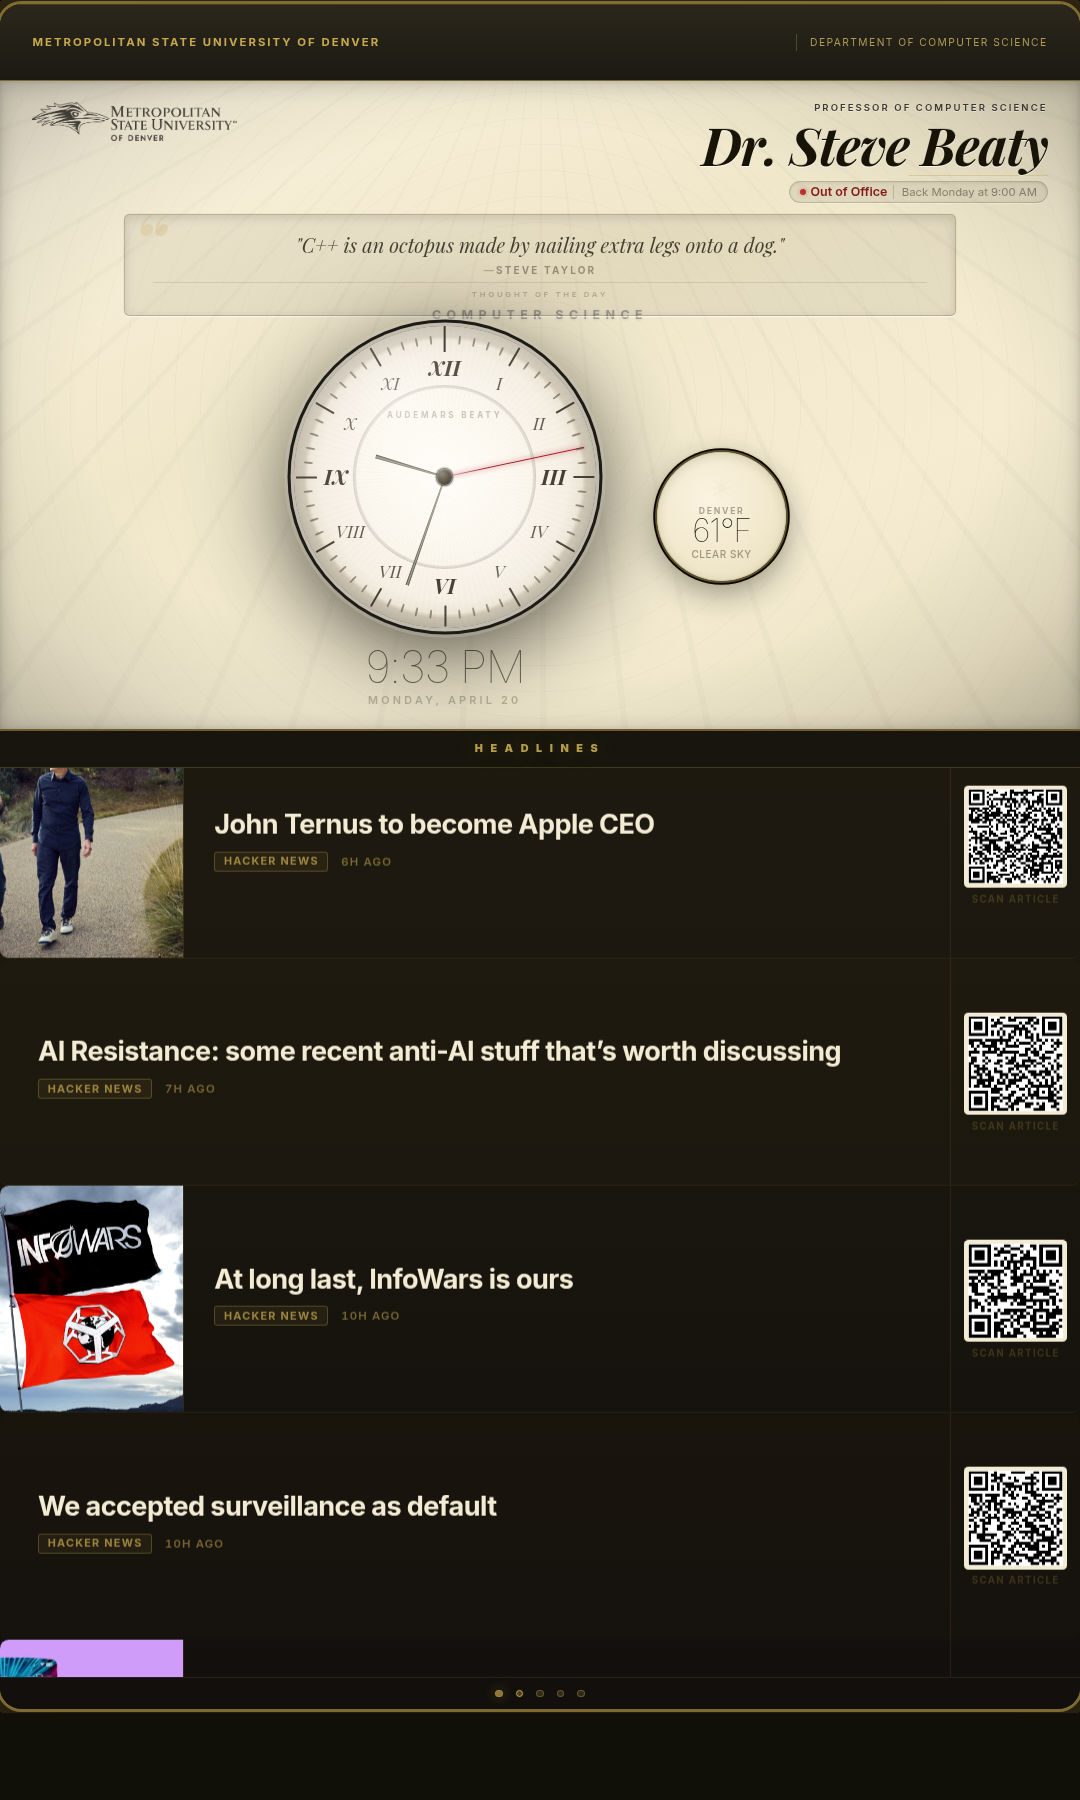
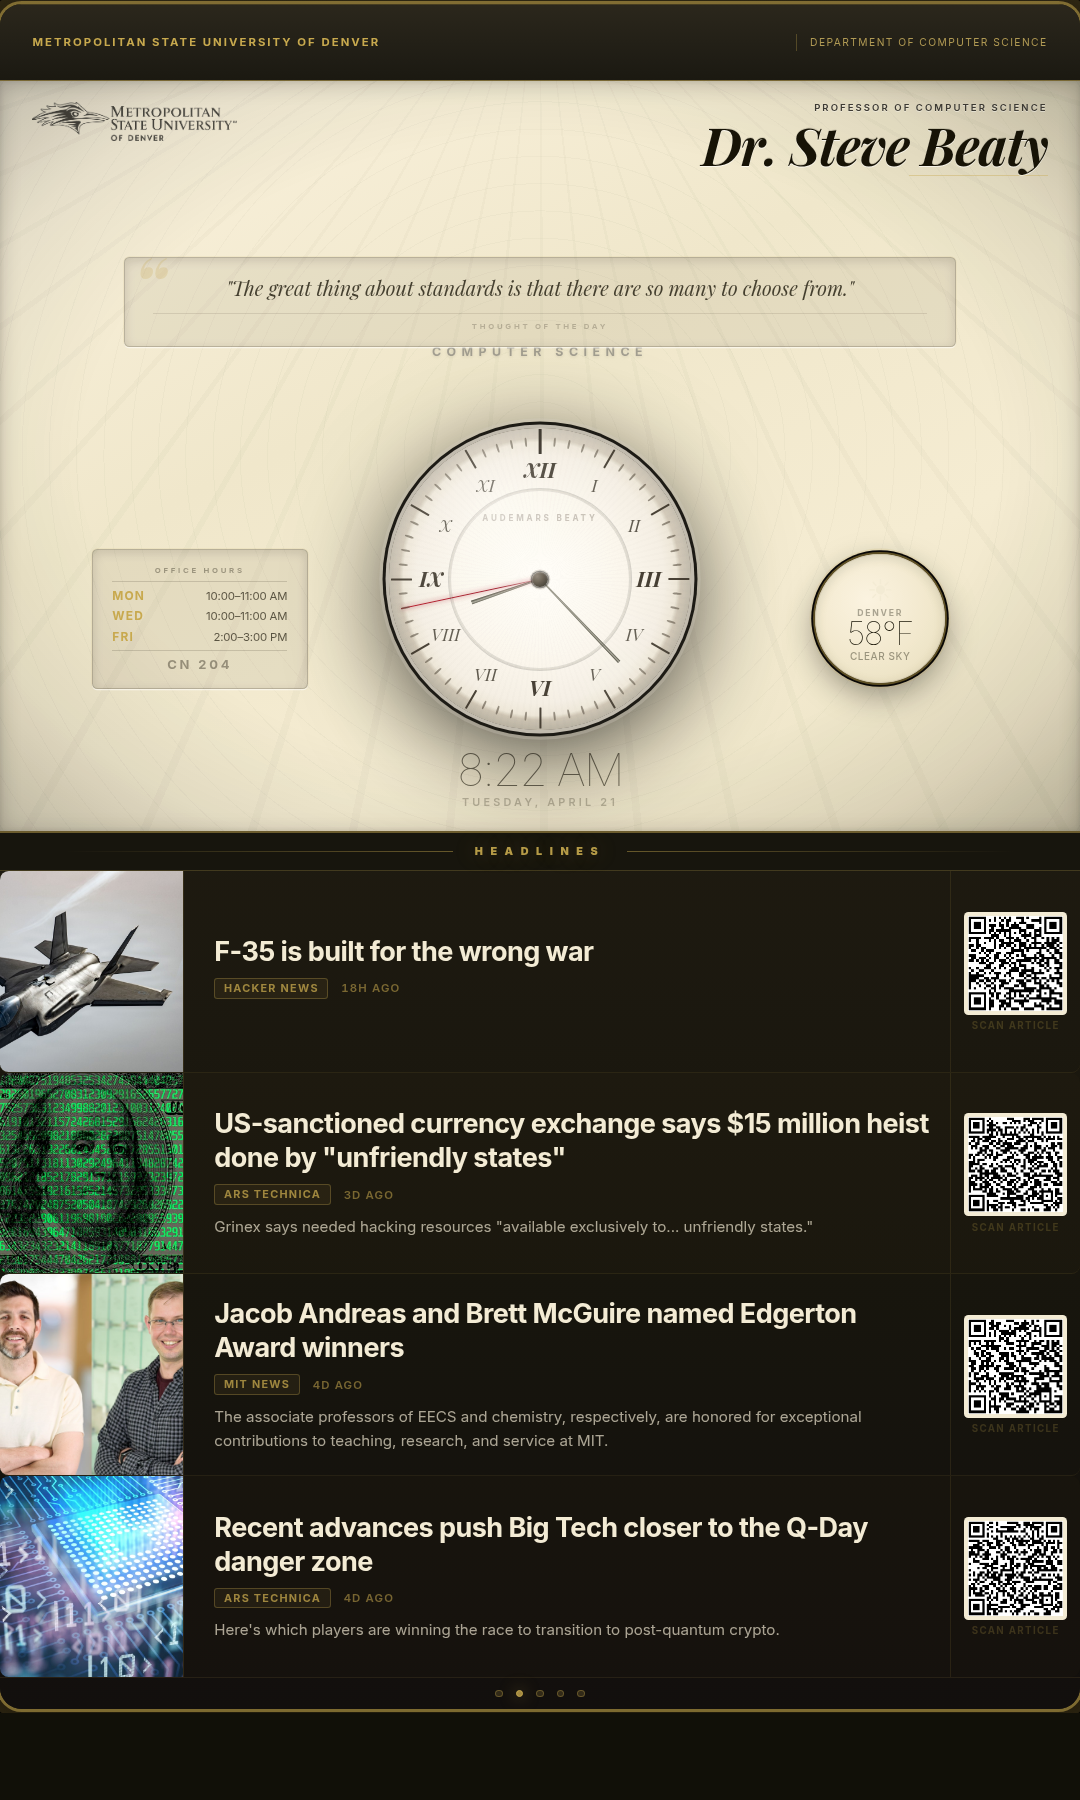
Redesign hero: 3-col widget layout, office hours panel, remove availability indicator
- Hero row height increased from 38% to 44% to fix clock clipping against quote text
- hero__widgets changed from flex to 3-column CSS grid (office hours | clock | weather)
- Added static office hours panel (Mon/Wed/Fri schedule, room CN 204) on the left
- Removed in/out-of-office availability card from nameplate and all supporting JS
- Updated all 6 canonical screenshots to reflect new layout

diff --git a/styles.css b/styles.css
@@ -40,7 +40,7 @@ body {
   aspect-ratio: 19 / 30;
   background: var(--case);
   display: grid;
-  grid-template-rows: 4.5% 38% 1fr;
+  grid-template-rows: 4.5% 44% 1fr;
   overflow: hidden;
   border-radius: 2cqw;
   filter: contrast(1.03) saturate(0.92);
@@ -290,6 +290,80 @@ body {
   padding-left: 0.7cqw;
 }
 
+/* ── OFFICE HOURS — complication panel ── */
+.office-hours-card {
+  justify-self: center;
+  display: flex;
+  flex-direction: column;
+  align-items: center;
+  gap: 0.55cqw;
+  padding: 1.4cqw 1.8cqw;
+  background: rgba(26,22,8,0.06);
+  border: 0.14cqw solid rgba(26,22,8,0.22);
+  border-radius: 0.5cqw;
+  box-shadow:
+    inset 0 0.25cqw 1cqw rgba(0,0,0,0.12),
+    0 0.12cqw 0 rgba(255,255,255,0.6),
+    0 0 0 0.06cqw rgba(200,168,72,0.12);
+  min-width: 20cqw;
+}
+
+.office-hours-card__title {
+  font-size: 0.72cqw;
+  font-weight: 700;
+  letter-spacing: 0.35em;
+  text-transform: uppercase;
+  color: rgba(26,22,8,0.35);
+  text-align: center;
+  padding-bottom: 0.55cqw;
+  border-bottom: 0.06cqw solid rgba(26,22,8,0.15);
+  width: 100%;
+}
+
+.office-hours-card__list {
+  list-style: none;
+  margin: 0;
+  padding: 0;
+  width: 100%;
+  display: flex;
+  flex-direction: column;
+  gap: 0.5cqw;
+}
+
+.office-hours-card__row {
+  display: flex;
+  justify-content: space-between;
+  align-items: baseline;
+  gap: 1.2cqw;
+}
+
+.office-hours-card__day {
+  font-size: 1.1cqw;
+  font-weight: 700;
+  letter-spacing: 0.1em;
+  text-transform: uppercase;
+  color: var(--brass);
+}
+
+.office-hours-card__time {
+  font-size: 1.05cqw;
+  font-weight: 400;
+  color: rgba(26,22,8,0.68);
+  letter-spacing: -0.01em;
+}
+
+.office-hours-card__location {
+  font-size: 1.2cqw;
+  font-weight: 700;
+  letter-spacing: 0.22em;
+  text-transform: uppercase;
+  color: rgba(26,22,8,0.38);
+  border-top: 0.06cqw solid rgba(26,22,8,0.15);
+  padding-top: 0.55cqw;
+  width: 100%;
+  text-align: center;
+}
+
 /* ── QUOTE — complication window ── */
 .quote-card {
   width: 82%;
@@ -357,12 +431,12 @@ body {
   border-top: 0.06cqw solid rgba(26,22,8,0.1);
 }
 
-/* ── WIDGETS ROW ── */
+/* ── WIDGETS ROW — three-column: office hours | clock | weather ── */
 .hero__widgets {
-  display: flex;
+  display: grid;
+  grid-template-columns: 1fr auto 1fr;
   align-items: center;
-  justify-content: center;
-  gap: 6%;
+  gap: 2cqw;
   position: relative;
 }
 
@@ -636,6 +710,7 @@ body {
 
 /* ── WEATHER — circular subdial complication ── */
 .weather-card {
+  justify-self: center;
   display: flex;
   flex-direction: column;
   align-items: center;

diff --git a/app.js b/app.js
@@ -5,13 +5,9 @@ import {
 } from "./utils.js";
 
 const configUrl = "config.json";
-const availabilityUrl = "availability.json";
 
 const logo = document.getElementById("logo");
 const displayName = document.getElementById("display-name");
-const availabilityCard = document.getElementById("availability-card");
-const availabilityStatus = document.getElementById("availability-status");
-const availabilityDetail = document.getElementById("availability-detail");
 const timeText = document.getElementById("time-text");
 const dateText = document.getElementById("date-text");
 const hourHand = document.getElementById("hour-hand");
@@ -57,7 +53,6 @@ async function boot() {
     startClock(activeConfig.timezone || "America/Denver");
     renderQuote(activeConfig.quotes);
     await Promise.allSettled([
-      loadAvailability(),
       loadWeather(activeConfig.weather),
       loadRss(activeConfig.rss)
     ]);
@@ -89,37 +84,6 @@ function applyBranding(config) {
   document.title = config.pageTitle || "Digital Signage";
   logo.src = config.logoImage;
   displayName.textContent = config.displayName || "Your Name";
-}
-
-async function loadAvailability() {
-  try {
-    const response = await fetch(availabilityUrl, { cache: "no-store" });
-    if (!response.ok) {
-      throw new Error(`Unable to load ${availabilityUrl}`);
-    }
-
-    const availability = await response.json();
-    renderAvailability(availability);
-  } catch (error) {
-    console.warn(error);
-    renderAvailability({ enabled: false });
-  }
-}
-
-function renderAvailability(availability = {}) {
-  if (!availability.enabled) {
-    availabilityCard.hidden = true;
-    return;
-  }
-
-  availabilityCard.hidden = false;
-  availabilityStatus.textContent = availability.status || "Available";
-  availabilityDetail.textContent = availability.detail || "";
-  availabilityDetail.hidden = !availability.detail;
-
-  const isIn = /in\s+office|available/i.test(availability.status || "");
-  availabilityCard.classList.toggle("availability-card--in", isIn);
-  availabilityCard.classList.toggle("availability-card--out", !isIn);
 }
 
 function renderQuote(quotesConfig = {}) {

diff --git a/index.html b/index.html
@@ -23,11 +23,6 @@
           </div>
           <div class="hero__nameplate">
             <h1 id="display-name" class="hero__name">Your Name</h1>
-            <section class="availability-card panel" id="availability-card" hidden>
-              <div class="availability-card__label">Availability</div>
-              <div id="availability-status" class="availability-card__status"></div>
-              <div id="availability-detail" class="availability-card__detail"></div>
-            </section>
           </div>
         </div>
 
@@ -37,6 +32,25 @@
         </section>
 
         <div class="hero__widgets">
+          <section class="office-hours-card panel">
+            <div class="office-hours-card__title">Office Hours</div>
+            <ul class="office-hours-card__list">
+              <li class="office-hours-card__row">
+                <span class="office-hours-card__day">Mon</span>
+                <span class="office-hours-card__time">10:00–11:00 AM</span>
+              </li>
+              <li class="office-hours-card__row">
+                <span class="office-hours-card__day">Wed</span>
+                <span class="office-hours-card__time">10:00–11:00 AM</span>
+              </li>
+              <li class="office-hours-card__row">
+                <span class="office-hours-card__day">Fri</span>
+                <span class="office-hours-card__time">2:00–3:00 PM</span>
+              </li>
+            </ul>
+            <div class="office-hours-card__location">CN 204</div>
+          </section>
+
           <section class="clock-card panel">
             <div class="analog-clock" aria-label="Current time">
               <div class="analog-clock__face"></div>
